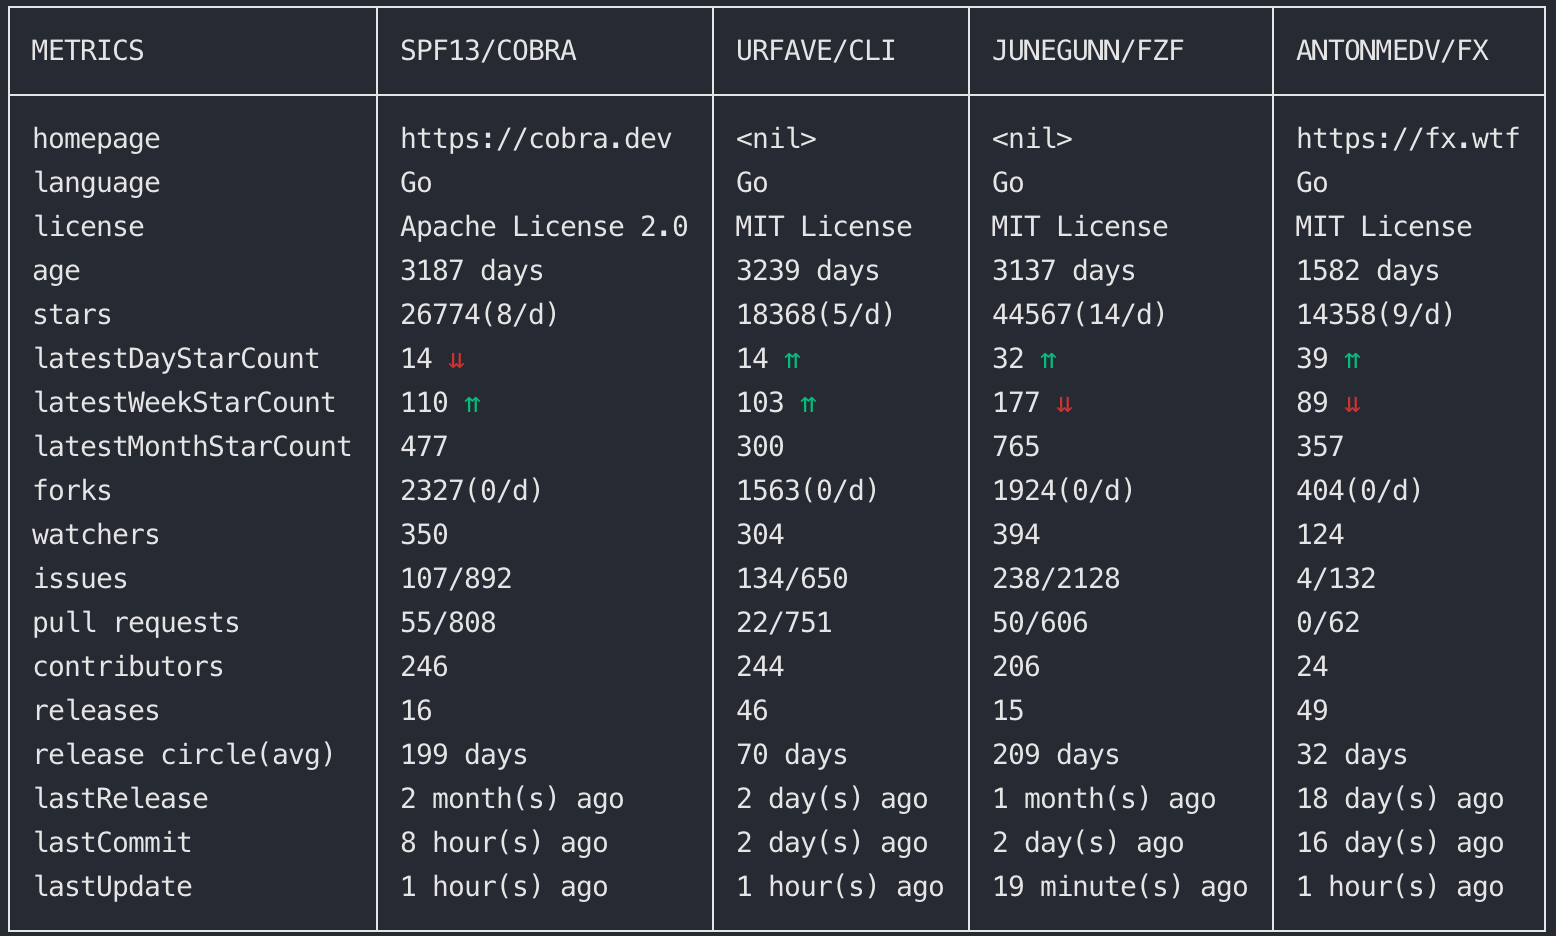
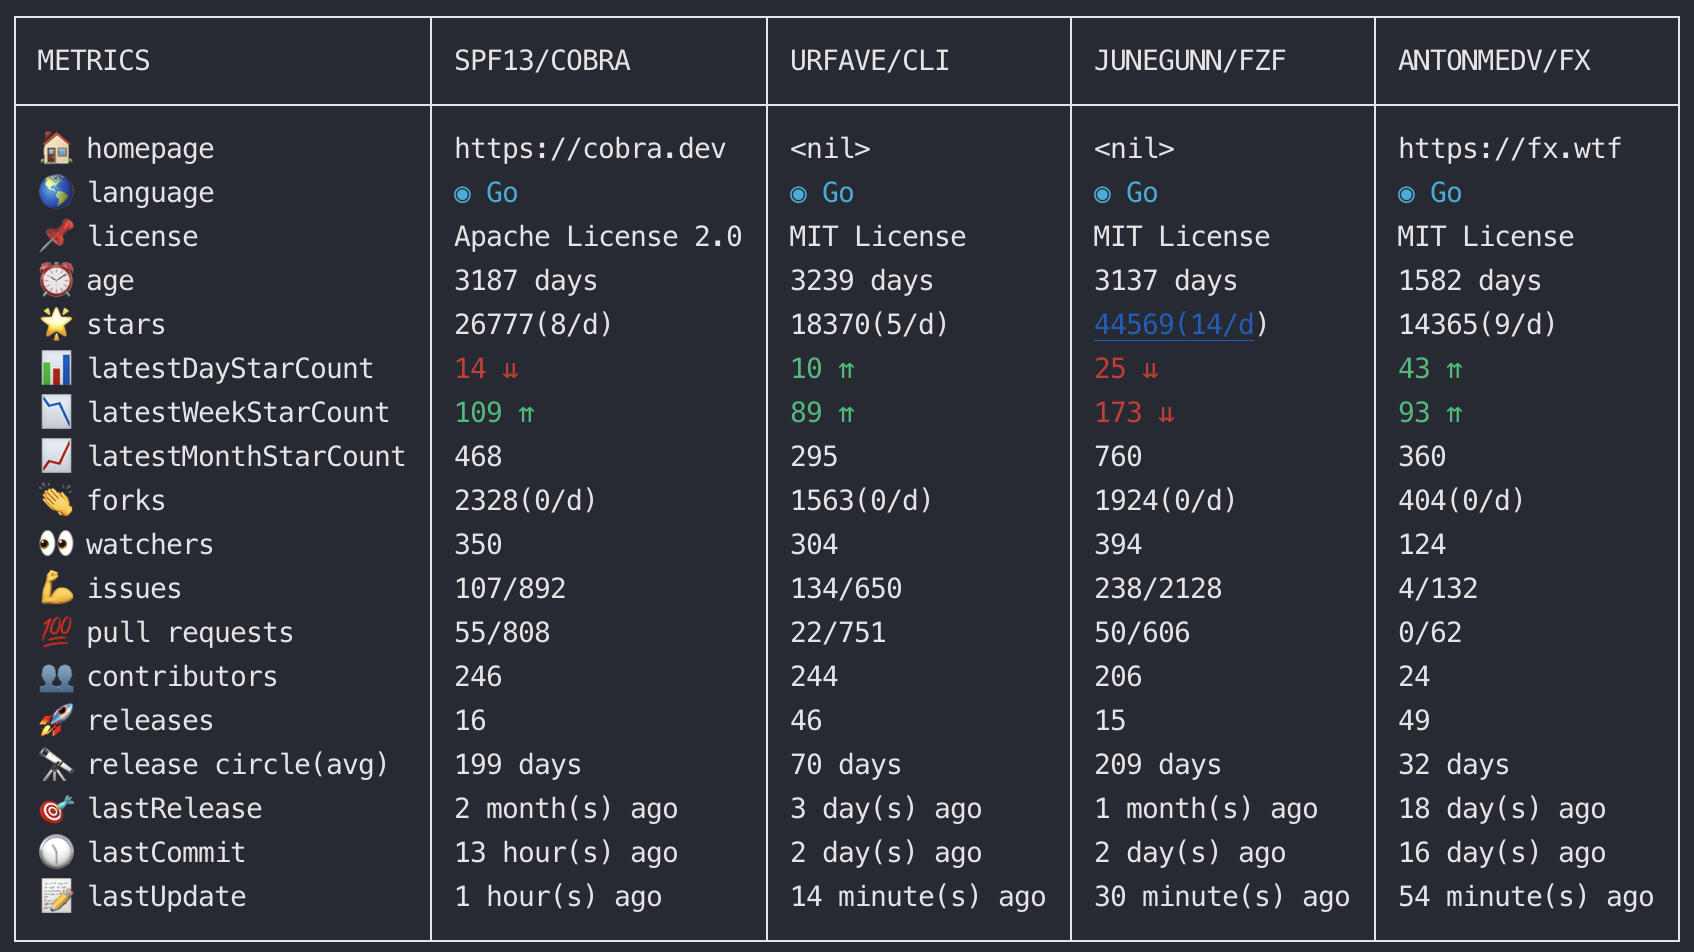
Pretty output

Changed region(s): [[0.0, 0.0, 1.0, 1.0]]

diff --git a/pkg/stat/overview.go b/pkg/stat/overview.go
@@ -188,14 +188,15 @@ func formatStarTrend(stars, trend int, renderColor bool) string {
 		if !renderColor {
 			trendEmoji = "⇊"
 		} else {
+			c.Add(color.FgHiRed)
 			starStr = c.Sprintf("%d", stars)
 			trendEmoji = c.Sprintf("⇊")
 		}
 	case trend > 0:
-		c.Add(color.FgHiGreen)
 		if !renderColor {
 			trendEmoji = "⇈"
 		} else {
+			c.Add(color.FgHiGreen)
 			starStr = c.Sprintf("%d", stars)
 			trendEmoji = c.Sprintf("⇈")
 		}
